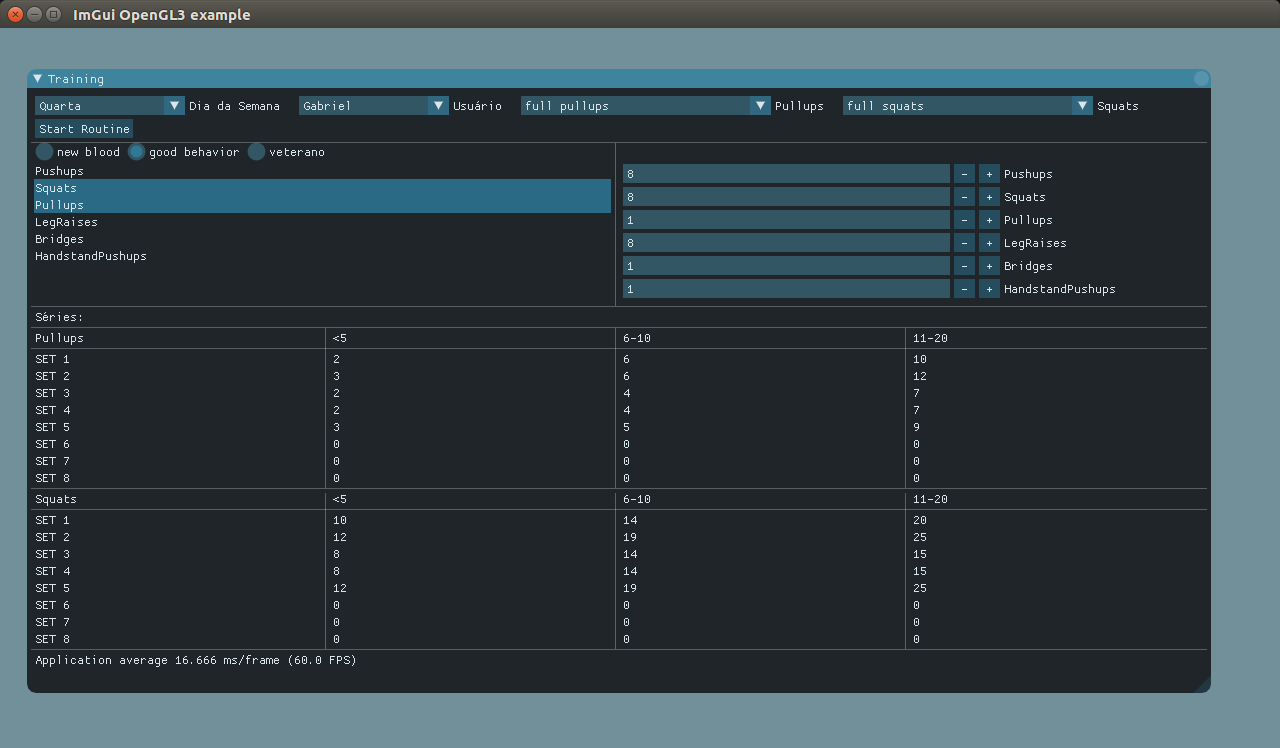
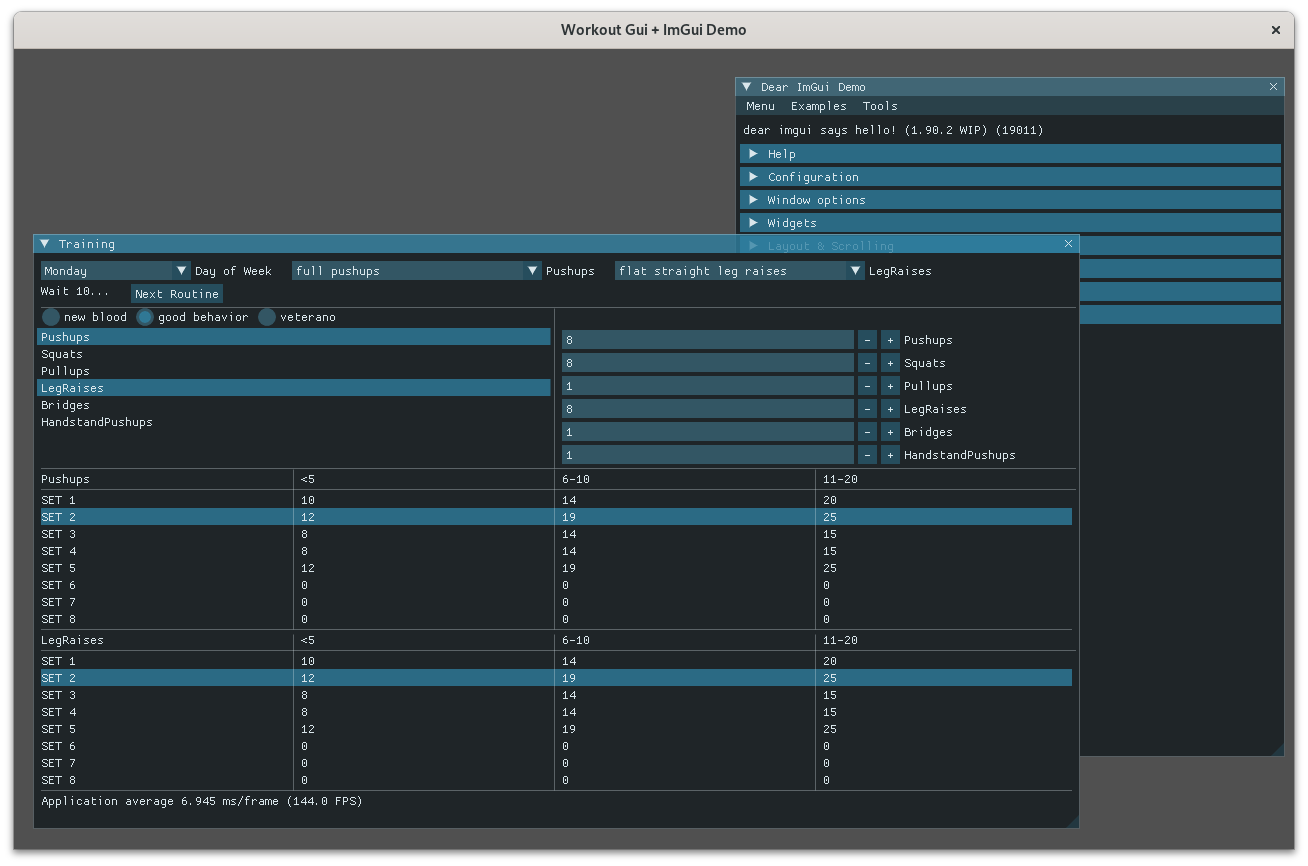
update image and fix waiting seconds

diff --git a/src/main.cpp b/src/main.cpp
@@ -22,12 +22,12 @@
 
 #include <vector>
 
-const unsigned int wait4seconds = 5;
+const unsigned int wait4seconds = 60;
 
 unsigned int width = 1280;
 unsigned int height = 720;
 std::vector<std::string> users;
-int user = -1;
+
 int u = 0;
 
 std::vector<std::string> routines;
@@ -342,7 +342,7 @@ static void showWorkoutGui(const Sound& alarm) {
       PlaySound(alarm);
     }
     if (dingdong) {
-      ImGui::Text("Aguarde %.2d...", (int)(dingdong - time(NULL)));
+      ImGui::Text("Wait %.2d...", (int)(dingdong - time(NULL)));
       ImGui::SameLine(0, 20);
     }
     // ImGui::SameLine(0, 20);
@@ -489,8 +489,7 @@ int main(int argc, char* argv[]) {
   int screenHeight = 800;
 
   SetConfigFlags(FLAG_MSAA_4X_HINT | FLAG_VSYNC_HINT | FLAG_WINDOW_RESIZABLE);
-  InitWindow(screenWidth, screenHeight,
-             "raylib-Extras [ImGui] example - simple ImGui Demo");
+  InitWindow(screenWidth, screenHeight, "Workout Gui + ImGui Demo");
   SetTargetFPS(144);
   rlImGuiSetup(true);
   InitAudioDevice();  // Initialize audio device
